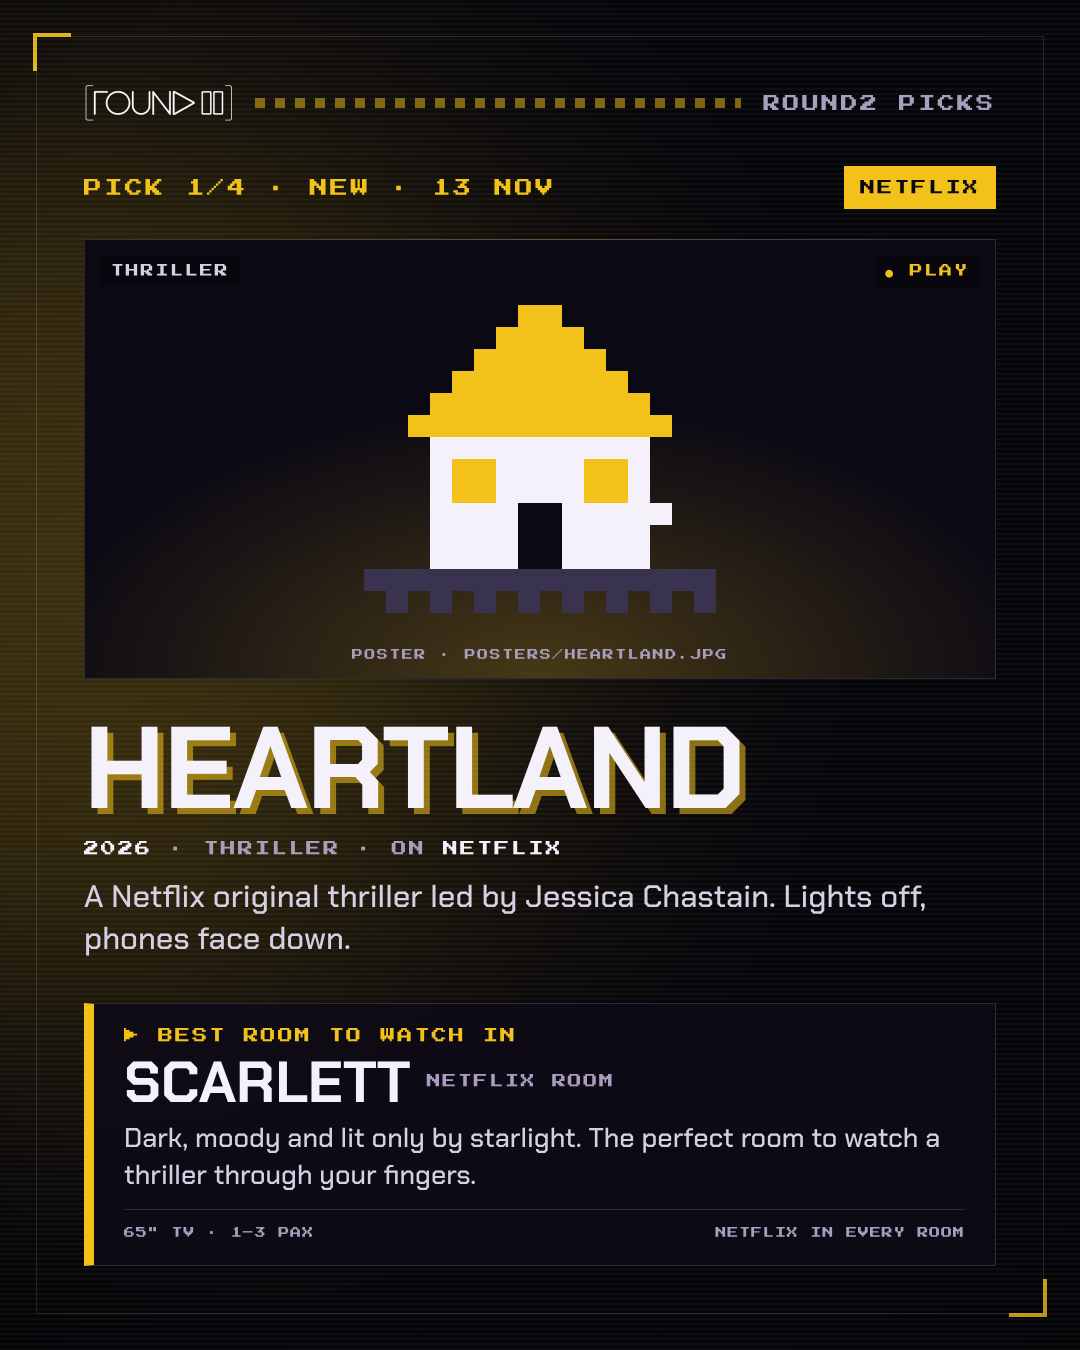
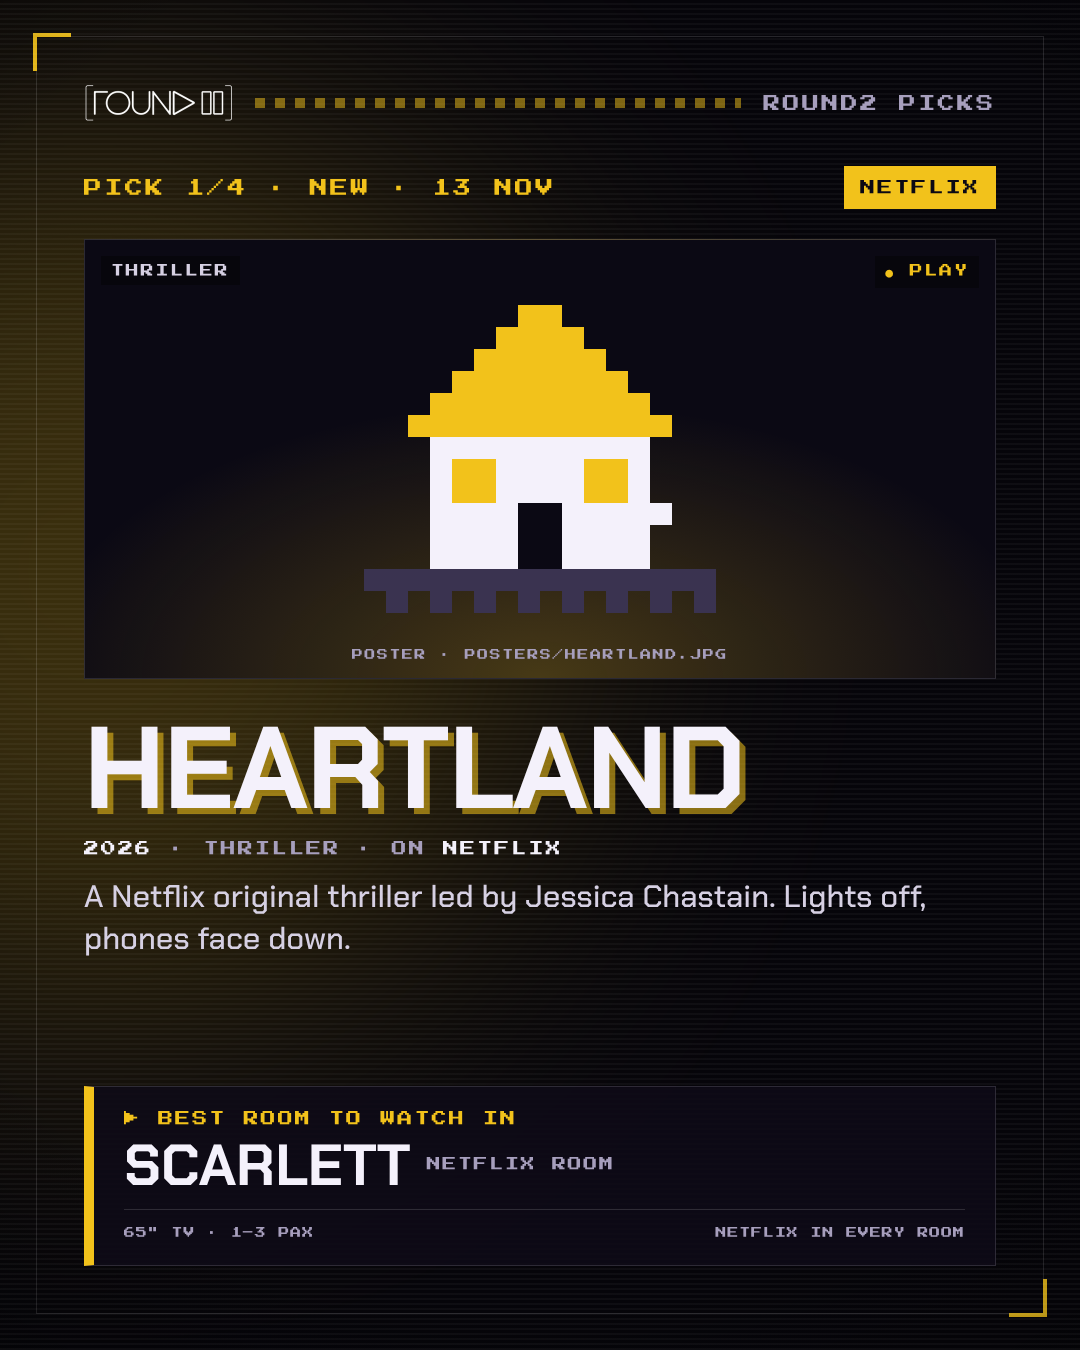
Round2 Picks: drop room descriptions (avoid repeating copy every fortnight)
Claude-Session: https://claude.ai/code/session_01PDkwSCLDYKchcH27nujJvW

Changed region(s): [[0.0917, 0.7467, 0.8556, 0.9022], [0.0611, 0.7467, 0.0917, 0.8089]]

diff --git a/marketing/ig-movie-picks/index.html b/marketing/ig-movie-picks/index.html
@@ -112,24 +112,19 @@ const ISSUE = {
   no: '01',
   dates: '6–19 Nov',
   // poster: drop the official poster or key art (landscape fills the screen; portrait sits centred on a blurred fill) into posters/ with this file name. Missing → 8-bit placeholder.
-  // vibe:   why this room suits this film. It's a suggestion – the footer reminds guests it plays in other rooms too.
   picks: [
     { title: 'Heartland', service: 'Netflix', when: 'New · 13 Nov', genre: 'Thriller', year: '2026',
       why: 'A Netflix original thriller led by Jessica Chastain. Lights off, phones face down.',
-      room: 'Scarlett', poster: 'posters/heartland.jpg', sprite: 'house',
-      vibe: 'Dark, moody and lit only by starlight. The perfect room to watch a thriller through your fingers.' },
+      room: 'Scarlett', poster: 'posters/heartland.jpg', sprite: 'house', },
     { title: 'Possible Love', service: 'Netflix', when: 'New · 6 Nov', genre: 'Korean cinema', year: '2026',
       why: 'The new film from Lee Chang-dong, the director of Burning. One for a slow, quiet night in.',
-      room: 'Kai', poster: 'posters/possible-love.jpg', sprite: 'heart',
-      vibe: 'Bonsai, stone and soft neutrals. A calm room for a film that takes its time.' },
+      room: 'Kai', poster: 'posters/possible-love.jpg', sprite: 'heart', },
     { title: 'Madden', service: 'Prime Video', when: 'New · 18 Nov', genre: 'Sports biopic', year: '2026',
       why: 'Nicolas Cage plays football legend John Madden. Bring the squad and pick sides.',
-      room: 'Maximillion', poster: 'posters/madden.jpg', sprite: 'ball',
-      vibe: 'Our biggest screen, home theatre sound and a racing sim for half-time. Built for game day.' },
+      room: 'Maximillion', poster: 'posters/madden.jpg', sprite: 'ball', },
     { title: 'Dune', service: 'HBO Max', when: 'Streaming now', genre: 'Sci-fi epic', year: '2021',
       why: 'Villeneuve’s desert epic was made for a big screen and a lot of bass.',
-      room: 'Atlas', poster: 'posters/dune.jpg', sprite: 'dune',
-      vibe: 'Warm whites and Greek-inspired details. A timeless room for an epic that feels ancient.' },
+      room: 'Atlas', poster: 'posters/dune.jpg', sprite: 'dune', },
   ],
 };
 /* ======================================================================== */
@@ -188,7 +183,7 @@ function cover(){
   return frame('#F2C21B', '#0b0914', `${topBar('Issue ' + ISSUE.no)}
     <div class="cv-kicker px">Round2 Picks · ${esc(ISSUE.dates)}</div>
     <h1 class="cv-title">Now<span>Playing</span></h1>
-    <div class="cv-sub">${ISSUE.picks.length} films we’d queue up this fortnight, each matched with the room that fits its vibe.</div>
+    <div class="cv-sub">${ISSUE.picks.length} films we’d queue up this fortnight, and the best room to watch each one in.</div>
     <div class="select"><div class="hd px"><span>Movie select</span><span class="blink">Swipe ▶</span></div>${rows}</div>
     <div class="cv-foot px"><span>Haji Lane · SG</span><span>round2.sg</span></div>`, 'right:-380px;top:-300px');
 }
@@ -209,7 +204,6 @@ function pick(p, i){
     <div class="room">
       <div class="l px">▶ Best room to watch in</div>
       <div class="nm">${esc(p.room)}<small>${esc(r.tier)}</small></div>
-      <div class="vb">${esc(p.vibe)}</div>
       <div class="ft px"><span>${esc(r.spec)}</span><span>${note}</span></div>
     </div>`,
     i % 2 ? 'right:-360px;top:120px' : 'left:-360px;top:120px');

diff --git a/marketing/ig-movie-picks/README.md b/marketing/ig-movie-picks/README.md
@@ -10,11 +10,11 @@ Marketing & design only. **Nothing here is used by the live site** – it lives 
 - Each pick slide has the "screen" box above the title for the movie's poster. Put the file in `posters/` with the name set
   in `ISSUE` (`posters/heartland.jpg` …). Landscape key art fills the box; a portrait poster sits centred on a blurred copy of itself. No file → an 8-bit placeholder
   (`SPRITES`) shows, so the slide never breaks. Use official key art the studio/streamer releases for promotion.
-- Room panel = "We'd watch it in <room>" + `vibe` (why the room suits the film). The footer always says the service
+- Room panel = "Best room to watch in <room>" + tier + specs only – no room description, so fortnightly posts don't repeat the same copy. The footer always says the service
   plays in other rooms too, so it reads as a suggestion, not a restriction.
 
 ## New issue (every 2 weeks)
-1. Edit `ISSUE` at the top of the script in `index.html` (issue no., dates, 3–5 picks: title, service, when, genre, year, why, room, vibe, poster, sprite),
+1. Edit `ISSUE` at the top of the script in `index.html` (issue no., dates, 3–5 picks: title, service, when, genre, year, why, room, poster, sprite),
    and drop the posters into `posters/`.
 2. `python3 render.py` → PNGs in `out/`. Open `index.html` in a browser to preview.
 3. Check every title is actually on the **Singapore** Netflix / Prime Video / HBO Max apps that day (release lists online are US).
@@ -27,4 +27,4 @@ Marketing & design only. **Nothing here is used by the live site** – it lives 
 
 ## Issue 01 (6–19 Nov 2026)
 Heartland (Netflix, 13 Nov) → Scarlett · Possible Love (Netflix, 6 Nov) → Kai · Madden (Prime Video, 18 Nov) → Maximillion ·
-Dune (HBO Max) → Atlas. Rooms matched by vibe (room descriptions from the live site). Posters not added yet. Dates from US release lists – confirm in the SG apps before posting.
+Dune (HBO Max) → Atlas. Rooms picked to suit each film; no room descriptions on the slides. Posters not added yet. Dates from US release lists – confirm in the SG apps before posting.
